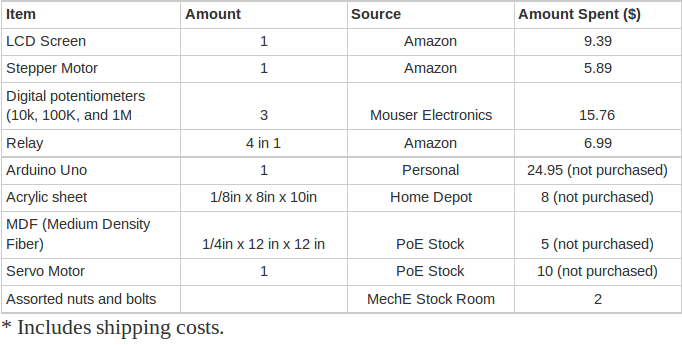
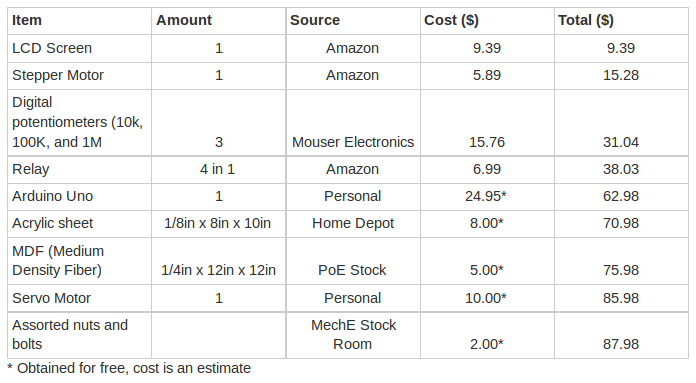
updating budget

diff --git a/sprint4.html b/sprint4.html
@@ -88,7 +88,7 @@
         <div class="container">
             <div class="row">
                 <div class="col-lg-8 col-lg-offset-2 col-md-10 col-md-offset-1">
-                    <p>Sprint Goals</p>
+                    <h2 class="section-heading">Sprint Goals</h2>
 
                     <ol>
                         <li>Last iteration of resistor dispensing system.</li>
@@ -99,7 +99,7 @@
                     
                     <h2 class="section-heading">Electrical</h2>
 
-                    <p>Electrical progress</p>
+                    <p>We had some problems with the digital potentiometers during this sprint. The circuit that we had implemented in Sprint 3 to get the potentiometers working had been altered, so it appeared that the digital potentiometers were not working and it took an unexpected amount of time to get the circuit working again. We also discovered that several of our potentiometers had been burned out, which caused them to either not work, or have incorrect resistances. We replaced the broken digital potentiometers, and recreated the circuit so that it was able to easily be connected to the relay. We also calibrated the digital potentiometers so that the values we calculated for them would be as close to the actual resistances they generated as possible. This was because the digital potentiometers often did not follow the same resistance calculations as specified in the data sheet. </p>
 
                     <a href="#">
                         <img class="img-responsive" src="img/sprint1/circuitdiagram.png" alt="">

diff --git a/budget.html b/budget.html
@@ -92,9 +92,9 @@
                 </div>
 
                 <a href="#">
-                        <img class="img-responsive" src="img/sprint4/budget.png" alt="">
+                        <center><img class="img-responsive" src="img/sprint4/budget.png"  alt="">
                     </a>
-                    <span class="caption text-muted">An account of how you spent your $250 budget. You must include all components and materials and their estimated costs (even if you obtained them for free somehow). Please note where something was obtained for free and cost is just your best estimate.</span>
+                    <span class="caption text-muted">An account of how where we got our materials and how much we spent on each. We were careful to not buy items we did not absolutely need, and we ended up well under our $250 budget. Shipping costs are included, and items that we obtained for free are marked with an asterisk. For all of these, costs are estimated and do not include shipping.</span>
             </div>
             <!-- Pager -->
             <ul class="pager">

diff --git a/index.html b/index.html
@@ -146,10 +146,10 @@
                 </div>
                 <hr>
                 <!-- Pager -->
-                <ul class="pager">
-                    <li class="next">
-                        <a href="#">Older Posts &rarr;</a>
-                    </li>
+                <!-- <ul class="pager"> -->
+                    <!-- <li class="next"> -->
+                   <!--      <a href="#">Older Posts &rarr;</a> -->
+                    <!-- </li> -->
                 </ul>
             </div>
         </div>
